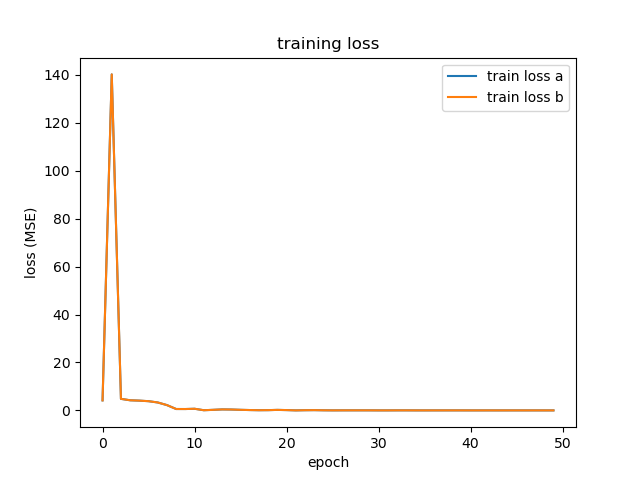
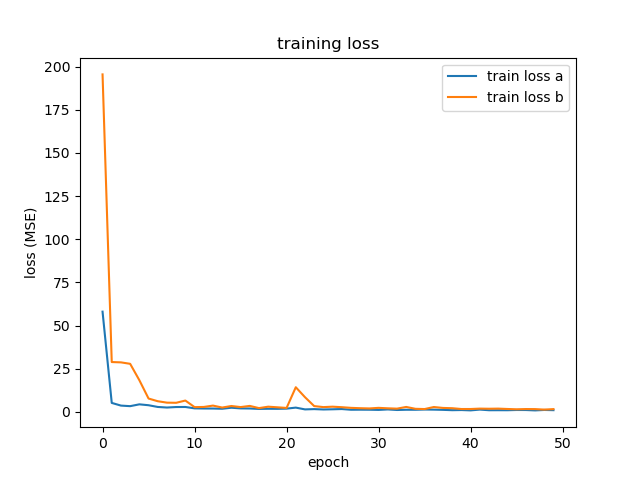
syc

diff --git a/safe_rl/safe_set_UL/disc_plots.py b/safe_rl/safe_set_UL/disc_plots.py
@@ -1,6 +1,7 @@
 from barriers.FCN import FCN
 from barriers.FCN_double import FCN_double
-from barriers.FCN_tanh import FCN_tanh
+from barriers.FCN_log import FCN_norm
+from barriers.FCN_u import FCN_u
 from barriers.inv_ped_CBF import inv_CBF
 from controllers.QP import QP_CBF_controller
 from envs.inv_ped import inv_ped
@@ -10,31 +11,35 @@ import matplotlib.pyplot as plt
 import numpy as np
 
 
-
+delta_t_sys = 0.01
 c_a, a, b, m, g, l = 0.2, 0.075, 0.15, 2, 10, 1
 u_min, u_max, x_min, x_max = -3, 3, [-0.3, -0.6], [0.3, 0.6]
 cbf1 = inv_CBF(c_a, a, b, m, g, l)
-env = inv_ped(g, m, l, u_min, u_max)
+env = inv_ped(g, m, l, u_min, u_max, delta_t_sys)
 
 def train_model(delta_t):
     print("Starting training...")
-    data, labels, all_inputs, all_input_labels = utils.get_data(1000, 200, delta_t, env, cbf1)
-    train_size = 1000
+    train_size = 500
+    input_size = 500
+    train_data, train_labels, inputs, input_labels = utils.get_data(train_size, input_size, delta_t, env, cbf1)
     epochs = 50
     batch_size = 32
-    train_data, train_labels = data[:train_size], labels[:train_size]
-    model = FCN(2, 2, 4, 1000, 'relu', 5e-3)
-    model.FCN.train()
+    model = FCN_u(2, 2, 5, 1000, 'relu', 5e-3)
+    model.FCN_a.train()
+    model.FCN_b.train()
     for epoch in range(epochs):
         if epoch % 10 == 0:
             print("Epoch:", epoch)
-        s_train_data, s_train_labels = utils.shuffle_data(train_data, train_labels)
+        #s_train_data, s_train_labels = utils.shuffle_data(train_data, train_labels)
+        s_train_data, s_inputs, s_input_labels = utils.shuffle_data_u(train_data, inputs, input_labels)
         running_loss_a = 0
         running_loss_b = 0
         for batch in range(train_size // batch_size):
             batch_data = s_train_data[batch*batch_size:batch*batch_size+batch_size]
-            batch_labels = s_train_labels[batch*batch_size:batch*batch_size+batch_size]
-            batch_loss_a, batch_loss_b = model.update(batch_data, batch_labels)
+            #batch_labels = s_train_labels[batch*batch_size:batch*batch_size+batch_size]
+            batch_inputs = s_inputs[batch*batch_size:batch*batch_size+batch_size]
+            batch_input_labels = s_input_labels[batch*batch_size:batch*batch_size+batch_size]
+            batch_loss_a, batch_loss_b = model.update(batch_data, batch_inputs, batch_input_labels)
             running_loss_a += batch_loss_a
             running_loss_b += batch_loss_b
         if epoch % 10 == 0:
@@ -52,17 +57,18 @@ def target_input(x, t):
   else:
     return m*(l**2)*((-g/l)*np.sin(x[0]) - (1.5*x[0]+1.5*x[1]))
 
-delta_t_s = np.linspace(0.0, 0.1, 20)
+#delta_t_s = np.linspace(0.04, 0.06, 3)
+delta_t_s = [0.05]
 for d in range(len(delta_t_s)):
     delta_t = delta_t_s[d]
     print("delta_t:", delta_t)
-    #model = train_model(delta_t)
-    disc1 = disc(cbf1, env, delta_t, 5000)
-    disc2 = disc(cbf1, env, delta_t, 5000, True)
+    model = train_model(delta_t)
+    disc1 = disc(cbf1, env, delta_t, 500)
+    disc2 = disc(cbf1, env, delta_t, 500, True)
     cbf_controller = QP_CBF_controller(target_input, cbf1)
     disc_controller1 = QP_CBF_controller(target_input, disc1)
     disc_controller2 = QP_CBF_controller(target_input, disc2)
-    #nn_controller = QP_CBF_controller(target_input, model)
+    nn_controller = QP_CBF_controller(target_input, model)
 
     # input plots
     n = 50
@@ -70,18 +76,17 @@ for d in range(len(delta_t_s)):
     x2 = np.linspace(-0.1, 0.1, n)
     z_cbf = -3.0*np.ones((n, n))
     z_disc = -3.0*np.ones((n, n))
-    z_disc2 = -3.0*np.ones((n, n))
+    z_nn = -3.0*np.ones((n, n))
     for i in range(n):
         for j in range(n):
             x = np.array([x1[i], x2[j]])
             if cbf1.H(x) >= 0:
                 a_cbf, b_cbf = cbf1.get_hyp(x)
                 a_disc1, b_disc1 = disc1.get_hyp(x)
-                a_disc2, b_disc2 = disc2.get_hyp(x)
+                a_nn, b_nn = model.get_hyp(x)
                 z_cbf[i, j] = b_cbf/a_cbf
                 z_disc[i, j] = b_disc1/a_disc1
-                z_disc2[i, j] = b_disc2/a_disc2
-                #z_nn[i, j] = u_nn
+                z_nn[i, j] = b_nn / a_nn
     
     fig = plt.figure(figsize=plt.figaspect(0.3))
     ax = fig.add_subplot(1, 3, 1, projection='3d')
@@ -111,29 +116,32 @@ for d in range(len(delta_t_s)):
     ax.axes.set_xlim3d(left=-0.05, right=0.05) 
     ax.axes.set_ylim3d(bottom=-0.1, top=0.1) 
     ax.axes.set_zlim3d(bottom=-3, top=3) 
-    ax.plot_surface(X, Y, z_disc2)
+    ax.plot_surface(X, Y, z_nn)
 
 
 
     plt.savefig('disc_plots/input/disc_dt{0}.png'.format(delta_t))
     plt.clf()
 
-    # print("Running system...")
+    print("Running system...")
 
-    # system = inv_ped(10, 2, 1, -3, 3)
-    # x = [0.01, -0.05]
-    # t = np.linspace(0, 10, 100)
-    # y_CBF = system.run_system(x, t, cbf_controller)
-    # y_disc1 = system.run_system(x, t, disc_controller1)
-    # y_disc2 = system.run_system(x, t, disc_controller2)
+    system = inv_ped(10, 2, 1, -3, 3, delta_t)
+    x = np.array([0.01, -0.05])
+    t = 10
+    y_CBF = system.run_system(x, t, cbf_controller)
+    y_disc1 = system.run_system(x, t, disc_controller1)
+    y_disc2 = system.run_system(x, t, disc_controller2)
+    y_NN = system.run_system(x, t, nn_controller)
 
-    # plt.xlim(-0.3, 0.3)
-    # plt.ylim(-0.6, 0.6)
-    # plt.plot(y_CBF[:, 0], y_CBF[:, 1], label="CBF")
-    # plt.plot(y_disc1[:, 0], y_disc1[:, 1], label='disc1')
-    # plt.plot(y_disc2[:, 0], y_disc2[:, 1], label='disc2')
-    # plt.xlabel('theta')
-    # plt.ylabel('theta_dot')
-    # plt.title('CBF vs euler vs sim')
-    # plt.legend()
-    # plt.savefig('disc_plots/control/disc_dt{0}.png'.format(str(delta_t)))
+    plt.xlim(-0.3, 0.3)
+    plt.ylim(-0.6, 0.6)
+    plt.plot(y_CBF[:, 0], y_CBF[:, 1], label="CBF")
+    plt.plot(y_NN[:, 0], y_NN[:, 1], label='NN')
+    plt.plot(y_disc2[:, 0], y_disc2[:, 1], label='disc2')
+    plt.plot(y_disc1[:, 0], y_disc1[:, 1], label='disc1')
+    plt.xlabel('theta')
+    plt.ylabel('theta_dot')
+    plt.title('CBF vs euler vs sim')
+    plt.legend()
+    plt.savefig('disc_plots/control/disc_dt{0}.png'.format(str(delta_t)))
+    plt.clf()

diff --git a/safe_rl/safe_set_UL/training_script.py b/safe_rl/safe_set_UL/training_script.py
@@ -1,6 +1,6 @@
 from barriers.FCN import FCN
 from barriers.FCN_double import FCN_double
-from barriers.FCN_tanh import FCN_tanh
+from barriers.FCN_log import FCN_norm
 from barriers.inv_ped_CBF import inv_CBF
 from controllers.QP import QP_CBF_controller
 from envs.inv_ped import inv_ped
@@ -8,33 +8,34 @@ from infra import utils
 import matplotlib.pyplot as plt
 import numpy as np
 
-model = FCN(2, 2, 4, 1000, 'relu', 5e-3)
+model = FCN_norm(2, 2, 4, 1000, 'relu', 5e-3)
 
 c_a, a, b, m, g, l = 0.2, 0.075, 0.15, 2, 10, 1
 u_min, u_max, x_min, x_max = -3, 3, [-0.3, -0.6], [0.3, 0.6]
 delta_t = 0.05
 cbf1 = inv_CBF(c_a, a, b, m, g, l)
-env = inv_ped(g, m, l, u_min, u_max)
+env = inv_ped(g, m, l, u_min, u_max, delta_t)
 normalized = False
+train_size = 5000
+num_inputs = 500
+batch_size = 32
 
 print('Collecting data...')
-normalize = False
-data, labels, all_inputs, all_input_labels = utils.get_data(1, 200, delta_t, env, cbf1)
+
+data, labels, all_inputs, all_input_labels = utils.get_data(train_size, num_inputs, delta_t, env, cbf1)
 
 print("num data", len(data))
 print("states", data[:3])
 print('labels', labels[:3])
-train_size = 1
-#val_size = 1
 epochs = 50
-batch_size = 1
 train_data, train_labels = data[:train_size], labels[:train_size]
 #val_data, val_labels = data[:val_size], labels[:val_size]
 
 print("Starting training...")
 unnorm_losses_a = []
 unnorm_losses_b = []
-model.FCN.train()
+model.FCN_a.train()
+model.FCN_b.train()
 for epoch in range(epochs):
   print("Epoch:", epoch)
   s_train_data, s_train_labels = utils.shuffle_data(train_data, train_labels)
@@ -110,9 +111,9 @@ plt.clf()
 # eval on control
 print("Running system...")
 
-system = inv_ped(10, 2, 1, -3, 3)
-x = [0.01, -0.05]
-t = np.linspace(0, 10, 100)
+system = inv_ped(10, 2, 1, -3, 3, delta_t)
+x = np.array([0.01, -0.05])
+t = 10
 y_NN = system.run_system(x, t, NN_controller)
 y_CBF = system.run_system(x, t, cbf_controller)
 plt.xlim(-0.3, 0.3)

diff --git a/safe_rl/safe_set_UL/label_vis.py b/safe_rl/safe_set_UL/label_vis.py
@@ -1,0 +1,47 @@
+from infra import utils
+from barriers.disc import disc
+import matplotlib.pyplot as plt
+import numpy as np
+from envs.inv_ped import inv_ped
+from barriers.inv_ped_CBF import inv_CBF
+
+n = 100
+x1 = np.linspace(-0.05, 0.05, n)
+x2 = np.linspace(-0.1, 0.1, n)
+z_ba = -3.0*np.ones((n, n))
+z_a = -3.0*np.ones((n, n))
+z_b = -3.0*np.ones((n, n))
+
+c_a, a, b, m, g, l = 0.2, 0.075, 0.15, 2, 10, 1
+delta_t = 0.05
+env = inv_ped(g, m, l, -3, 3, delta_t)
+cbf1 = inv_CBF(c_a, a, b, m, g, l)
+
+for i in range(n):
+    for j in range(n):
+        x = np.array([[x1[i], x2[j]]])
+        inputs = utils.sample_inputs(x, 1000)
+        input_labels = utils.label_inputs(x, inputs, env, cbf1, delta_t)
+        label = utils.label_states(x, inputs, input_labels)[0]
+        z_ba[i, j] = label[1] / label[0]
+        label = label / np.linalg.norm(label)
+        z_a[i, j] = label[0]
+        z_b[i, j] = label[1]
+
+
+fig = plt.figure(figsize=plt.figaspect(0.3))
+ax = fig.add_subplot(1, 3, 1, projection='3d')
+ax.title.set_text("b/a")
+
+X, Y = np.meshgrid(x1, x2)
+ax.plot_surface(X, Y, z_ba)
+
+ax = fig.add_subplot(1, 3, 2, projection='3d')
+ax.title.set_text("a")
+ax.plot_surface(X, Y, z_a)
+
+ax = fig.add_subplot(1, 3, 3, projection='3d')
+ax.title.set_text("b")
+ax.plot_surface(X, Y, z_b)
+
+plt.savefig('ab_norm.png'.format(delta_t))

diff --git a/safe_rl/safe_set_UL/barriers/FCN_log.py b/safe_rl/safe_set_UL/barriers/FCN_log.py
@@ -4,7 +4,7 @@ import torch as th
 from torch import nn
 from torch import optim
 
-class FCN_tanh():
+class FCN_norm():
   def __init__(self, input_size, output_size, n_layers, size, activation, lr):
     '''
     n_layers: number of hidden layers
@@ -20,12 +20,12 @@ class FCN_tanh():
 
   def forward(self, x):
     x = ptu.from_numpy(x)
-    return self.FCN_a(x).squeeze(), th.tanh(self.FCN_b(x)).squeeze()
+    return self.FCN_a(x).squeeze(), self.FCN_b(x).squeeze()
 
   def update(self, x, labels):
-    a_labels = labels[:, 0] / np.abs(labels[:, 0])
-    b_labels = labels[:, 1] / np.abs(labels[:, 0])
-    print(a_labels[:3], b_labels[:3])
+    norms = np.linalg.norm(labels, axis=1)
+    a_labels = labels[:, 0] / norms
+    b_labels = labels[:, 1] / norms
     a_labels = ptu.from_numpy(a_labels)
     b_labels = ptu.from_numpy(b_labels)
     self.optimizer_a.zero_grad()
@@ -34,12 +34,12 @@ class FCN_tanh():
     loss_a.backward()
     self.optimizer_a.step()
     self.optimizer_b.zero_grad()
-    loss_b = self.loss_b(th.atanh(b), b_labels)
+    loss_b = self.loss_b(b, b_labels)
     loss_b.backward()
     self.optimizer_b.step()
     return loss_a, loss_b
 
   def get_hyp(self, x):
     a, b = self.forward(x)
-    a, b = np.sign(ptu.to_numpy(a)), np.arctanh(ptu.to_numpy(b))
+    a, b = ptu.to_numpy(a), ptu.to_numpy(b)
     return a, b

diff --git a/safe_rl/safe_set_UL/envs/inv_ped.py b/safe_rl/safe_set_UL/envs/inv_ped.py
@@ -2,21 +2,31 @@ from scipy.integrate import odeint
 import numpy as np
 
 class inv_ped():
-  def __init__(self, g, m, l, u_min, u_max):
+  def __init__(self, g, m, l, u_min, u_max, delta_t):
     self.u_min = u_min
     self.u_max = u_max
     self.g = g
     self.m = m
     self.l = l
+    self.delta_t = delta_t
 
-  def run_system(self, x_0, timesteps, input_signal):
-    return odeint(self.system, x_0, timesteps, args=(input_signal, ))
+  def run_system(self, x_0, total_time, input_signal):
+    y = [x_0]
+    x_t = x_0
+    t = 0
+    while t < total_time:
+      timesteps = np.linspace(t, t+self.delta_t)
+      u = input_signal.forward(x_t, t)
+      y_delta_t = np.array(odeint(self.system, x_t, timesteps, args=(u,))[-1])
+      y.append(y_delta_t)
+      t += self.delta_t
+      x_t = y_delta_t
+    return np.array(y)
 
-  def system(self, x, t, controller):
+  def system(self, x, t, u):
     g = self.g
     m = self.m
     l = self.l
-    u = controller.forward(x, t)
     theta = x[0]
     theta_dot = x[1]
     x_dot = [theta_dot, (g/l)*np.sin(x[0]) +  u/(m*l**2)]

diff --git a/safe_rl/safe_set_UL/barriers/FCN_u.py b/safe_rl/safe_set_UL/barriers/FCN_u.py
@@ -26,15 +26,9 @@ class FCN_u():
     u = ptu.from_numpy(u)
     u_bar = ptu.from_numpy(u_bar)
     a, b = self.forward(x)
-    diff = 1-u_bar * (a*u-b)
+    print(a.shape, b.shape, u.shape, u_bar.shape)
+    diff = -u_bar * (a*u-b)
     mask = th.where(diff > 0, 1, 0)
-    # print("u_bar", u_bar[0, :3])
-    # print("u", u[0, :3])
-    # print("a, b", a[0], b[0])
-    # print("au-b", (a*u-b)[0, :3])
-    # print("mask", mask[0, :3])
-    # print("diff", diff[0, :3], th.where(diff > 0, 1, 0)[0, :3])
-    # print("diff*mask", (diff*mask)[0, :3])
 
     self.optimizer_a.zero_grad()
     self.optimizer_b.zero_grad()
@@ -49,7 +43,7 @@ class FCN_u():
       u = ptu.from_numpy(u)
       u_bar = ptu.from_numpy(u_bar)
       a, b = self.forward(x)
-      diff = 1-u_bar * (a*u-b)
+      diff = -u_bar * (a*u-b)
       mask = th.where(diff > 0, 1, 0)
       loss = th.sum((diff*mask)**2, dim=1).mean()
     return loss

diff --git a/safe_rl/safe_set_UL/infra/utils.py b/safe_rl/safe_set_UL/infra/utils.py
@@ -36,8 +36,7 @@ def label_inputs_env(states, inputs, env, CBF, delta_t):
     for u in inputs[i]:
       controller = u_controller(u)
       x_0 = states[i]
-      t = np.linspace(0, delta_t)
-      y = env.run_system(x_0, t, controller)
+      y = env.run_system(x_0, delta_t, controller)
       x_final = y[-1, :]
       label_u.append(np.sign(CBF.H(x_final)))
     labels.append(label_u)
@@ -77,7 +76,7 @@ def fit_SVC(inputs, labels):
 def get_data(num_data, num_inputs, delta_t, env, CBF):
   states = sample_states(num_data, env, CBF)
   inputs = sample_inputs(states, num_inputs)
-  input_labels = label_inputs_env(states, inputs, env, CBF, delta_t)
+  input_labels = label_inputs(states, inputs, env, CBF, delta_t)
   labels = label_states(states, inputs, input_labels)
   return states, labels, inputs, input_labels
 
